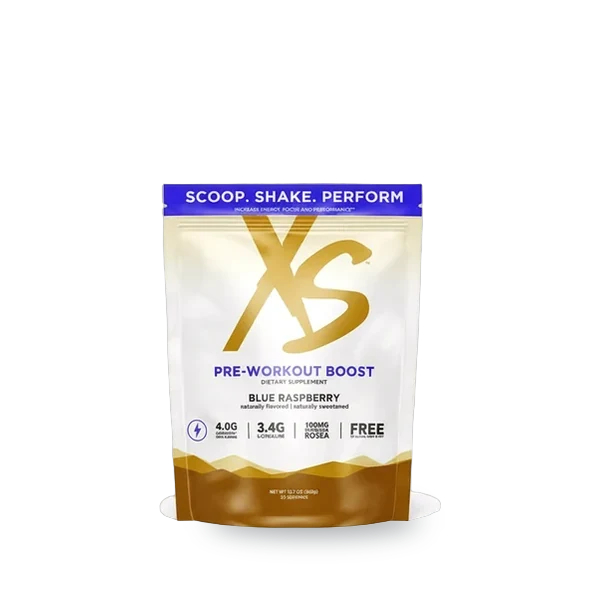
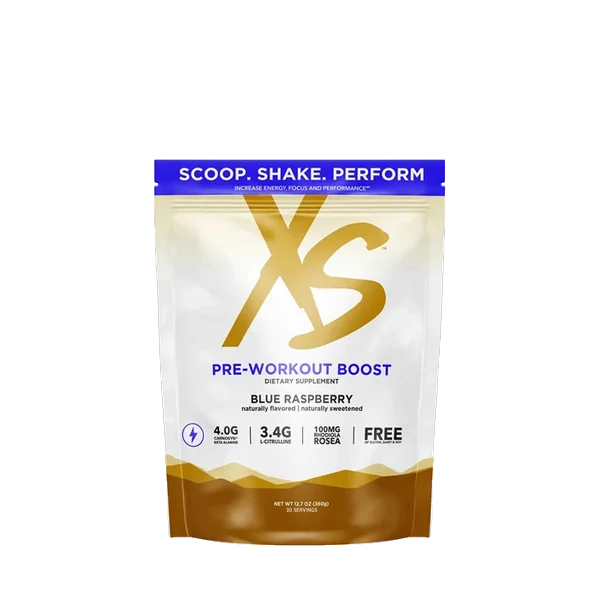
The XS Pre-Workout pouch loses its washed-out studio shot and the grey plate around its base
Two separate faults in one product. The studio re-light (product-shots/) had
tinted the white pouch body cream, and it won over the catalogue photo, so the
colour was wrong everywhere the pack showed; it is parked in unreviewed/.
The catalogue photo itself carried a pale neutral 'plate' around the pouch's
base, light enough to survive the cut-out, which read on the page as a white
ellipse sticking out either side. Cleared in the source's alpha below the row
where it starts: the pouch's own art is warm, the plate was neutral, so only
the plate went. Saved lossless -- the source is RGBA and a lossy re-save, or
flattening it to RGB, turns the cut-out into a white box.

Changed region(s): [[0.24, 0.24, 0.75, 0.93]]

diff --git a/plus/homepage.html b/plus/homepage.html
@@ -485,7 +485,7 @@ if(doc.readyState==='loading')doc.addEventListener('DOMContentLoaded',raise,{onc
           <div class="rk-head"><h3 class="rk-title" id="rk-t-energy-focus">Energy &amp; Focus</h3><p class="rk-sub">Before the session</p></div>
           <ul class="bay-packs rk-packs">
               <li class="bay-pack" style="--k:0"><a class="bay-go" href="https://amway.com/share-link/uoKaQD8~a" target="_blank" rel="noopener" data-name="XS Energy Drink" data-kind="Energy drink · 12 oz · Classic" data-line="The no-sugar can for before the session" data-facts="0 g sugar|114 mg caffeine|15 calories|12 cans, 12 fl oz" data-sfx="can" data-try="XS Energy Drink 12 oz - Classic"><img src="../assets/products/xs-energy-drink-12-oz-classic.webp" alt="" width="600" height="600" loading="lazy" decoding="async"><span>XS Energy Drink</span><span class="vh">, buy on Amway (opens in a new tab)</span></a></li>
-              <li class="bay-pack" style="--k:1"><a class="bay-go" href="https://amway.com/share-link/ZsJafHG0E" target="_blank" rel="noopener" data-name="XS Pre-Workout Boost" data-kind="Pre-workout mix · Blue Raspberry, 30-serving pouch" data-line="The last thing before a hard session" data-facts="115 mg caffeine|4 g beta-alanine|3.4 g L-citrulline|30 servings" data-sfx="chime" data-try="XS Pre-Workout Boost - Blue Raspberry (30 Serving Pouch)"><img src="../assets/products/xs-pre-workout-boost-blue-raspberry-30-serving-pouch.webp" alt="" width="600" height="600" loading="lazy" decoding="async"><span>XS Pre-Workout Boost</span><span class="vh">, buy on Amway (opens in a new tab)</span></a></li>
+              <li class="bay-pack" style="--k:1"><a class="bay-go" href="https://amway.com/share-link/SattacJ5V" target="_blank" rel="noopener" data-name="XS Pre-Workout Boost" data-kind="Pre-workout mix · Blue Raspberry, 12 stick packs" data-line="The last thing before a hard session" data-facts="" data-sfx="chime" data-try="XS Pre-Workout Boost - Blue Raspberry (12 Stick Packs)"><img src="../assets/products/xs-pre-workout-boost-blue-raspberry-12-stick-packs.webp" alt="" width="600" height="600" loading="lazy" decoding="async"><span>XS Pre-Workout Boost</span><span class="vh">, buy on Amway (opens in a new tab)</span></a></li>
               <li class="bay-pack" style="--k:2"><a class="bay-go" href="https://amway.com/share-link/zFoRkr5eK" target="_blank" rel="noopener" data-name="XS Energy + Focus Dietary Supplement" data-kind="Energy tablets · 30 tablets" data-line="For giving the workout your full attention" data-facts="30 tablets|75 mg caffeine a tablet|Caffeine from green tea" data-sfx="chime" data-try="XS Energy + Focus Dietary Supplement - 30 Tablets"><img src="../assets/products/xs-energy-focus-dietary-supplement-30-tablets.webp" alt="" width="600" height="600" loading="lazy" decoding="async"><span>XS Energy + Focus Dietary Supplement</span><span class="vh">, buy on Amway (opens in a new tab)</span></a></li>
           </ul>
           <div class="rk-acts"><button class="btn rk-load" type="button" aria-pressed="false" data-cat="energy-focus" hidden>Load this plate</button><a class="bay-all rk-all" href="category-energy-focus.html">See all Energy &amp; Focus<svg class="ic ic-sm" aria-hidden="true"><use href="#i-arrow"/></svg></a></div>
@@ -1318,7 +1318,7 @@ if(doc.readyState==='loading')doc.addEventListener('DOMContentLoaded',raise,{onc
         <li class="card grow" style="--d:0" data-cat="recovery"><a class="card-link" href="https://amway.com/share-link/lrJlYVhGM" target="_blank" rel="noopener" data-name="XS Post-Workout Recovery" data-kind="Recovery mix · Fruit Punch, 12 stick packs" data-line="For getting back in the game after training" data-facts="12 stick packs|5.6 g L-glutamine|1.5 g glucosamine|45 calories" data-sfx="chime" data-try="XS Post-Workout Recovery - Fruit Punch (12 Stick Packs)" data-shelves="recovery"><span class="shot shot-studio"><img src="../assets/products/xs-post-workout-recovery-fruit-punch-12-stick-packs.webp" alt="" loading="lazy" width="600" height="600"></span><p class="p-tag">Recovery</p><h3 class="p-name">XS Post-Workout Recovery</h3><p class="p-desc">Recovery mix · Fruit Punch, 12 stick packs</p><span class="vh">Buy on Amway (opens in a new tab)</span></a></li>
         <li class="card grow" style="--d:1" data-cat="recovery"><a class="card-link" href="https://amway.com/share-link/CBN8O~MnX" target="_blank" rel="noopener" data-name="XS Post-Workout Recovery" data-kind="Recovery mix · Fruit Punch, 30-serving pouch" data-line="For getting back in the game after training" data-facts="" data-sfx="chime" data-try="XS Post-Workout Recovery - Fruit Punch (30 Serving Pouch)" data-shelves="recovery"><span class="shot shot-studio"><img src="../assets/products/xs-post-workout-recovery-fruit-punch-30-serving-pouch.webp" alt="" loading="lazy" width="600" height="600"></span><p class="p-tag">Recovery</p><h3 class="p-name">XS Post-Workout Recovery</h3><p class="p-desc">Recovery mix · Fruit Punch, 30-serving pouch</p><span class="vh">Buy on Amway (opens in a new tab)</span></a></li>
         <li class="card grow" style="--d:2" data-cat="energy-focus"><a class="card-link" href="https://amway.com/share-link/SattacJ5V" target="_blank" rel="noopener" data-name="XS Pre-Workout Boost" data-kind="Pre-workout mix · Blue Raspberry, 12 stick packs" data-line="The last thing before a hard session" data-facts="" data-sfx="chime" data-try="XS Pre-Workout Boost - Blue Raspberry (12 Stick Packs)" data-shelves="energy-focus"><span class="shot"><img src="../assets/products/xs-pre-workout-boost-blue-raspberry-12-stick-packs.webp" alt="" loading="lazy" width="600" height="600"></span><p class="p-tag">Energy &amp; Focus</p><h3 class="p-name">XS Pre-Workout Boost</h3><p class="p-desc">Pre-workout mix · Blue Raspberry, 12 stick packs</p><span class="vh">Buy on Amway (opens in a new tab)</span></a></li>
-        <li class="card grow" style="--d:3" data-cat="energy-focus"><a class="card-link" href="https://amway.com/share-link/ZsJafHG0E" target="_blank" rel="noopener" data-name="XS Pre-Workout Boost" data-kind="Pre-workout mix · Blue Raspberry, 30-serving pouch" data-line="The last thing before a hard session" data-facts="115 mg caffeine|4 g beta-alanine|3.4 g L-citrulline|30 servings" data-sfx="chime" data-try="XS Pre-Workout Boost - Blue Raspberry (30 Serving Pouch)" data-shelves="energy-focus"><span class="shot shot-studio"><img src="../assets/products/xs-pre-workout-boost-blue-raspberry-30-serving-pouch.webp" alt="" loading="lazy" width="600" height="600"></span><p class="p-tag">Energy &amp; Focus</p><h3 class="p-name">XS Pre-Workout Boost</h3><p class="p-desc">Pre-workout mix · Blue Raspberry, 30-serving pouch</p><span class="vh">Buy on Amway (opens in a new tab)</span></a></li>
+        <li class="card grow" style="--d:3" data-cat="energy-focus"><a class="card-link" href="https://amway.com/share-link/ZsJafHG0E" target="_blank" rel="noopener" data-name="XS Pre-Workout Boost" data-kind="Pre-workout mix · Blue Raspberry, 30-serving pouch" data-line="The last thing before a hard session" data-facts="115 mg caffeine|4 g beta-alanine|3.4 g L-citrulline|30 servings" data-sfx="chime" data-try="XS Pre-Workout Boost - Blue Raspberry (30 Serving Pouch)" data-shelves="energy-focus"><span class="shot"><img src="../assets/products/xs-pre-workout-boost-blue-raspberry-30-serving-pouch.webp" alt="" loading="lazy" width="600" height="600"></span><p class="p-tag">Energy &amp; Focus</p><h3 class="p-name">XS Pre-Workout Boost</h3><p class="p-desc">Pre-workout mix · Blue Raspberry, 30-serving pouch</p><span class="vh">Buy on Amway (opens in a new tab)</span></a></li>
         <li class="card grow" style="--d:0" data-cat="energy-focus"><a class="card-link" href="https://amway.com/share-link/m5Jg-DMsC" target="_blank" rel="noopener" data-name="XS Pre-Workout Boost" data-kind="Pre-workout mix · Green Apple, 12 stick packs" data-line="The last thing before a hard session" data-facts="" data-sfx="chime" data-try="XS Pre-Workout Boost - Green Apple (12 Stick Packs)" data-shelves="energy-focus"><span class="shot"><img src="../assets/products/xs-pre-workout-boost-green-apple-12-stick-packs.webp" alt="" loading="lazy" width="600" height="600"></span><p class="p-tag">Energy &amp; Focus</p><h3 class="p-name">XS Pre-Workout Boost</h3><p class="p-desc">Pre-workout mix · Green Apple, 12 stick packs</p><span class="vh">Buy on Amway (opens in a new tab)</span></a></li>
         <li class="card grow" style="--d:1" data-cat="energy-focus"><a class="card-link" href="https://amway.com/share-link/Om6-lIl43" target="_blank" rel="noopener" data-name="XS Pre-Workout Boost" data-kind="Pre-workout mix · Green Apple, 30-serving pouch" data-line="The last thing before a hard session" data-facts="" data-sfx="chime" data-try="XS Pre-Workout Boost - Green Apple (30 Serving Pouch)" data-shelves="energy-focus"><span class="shot"><img src="../assets/products/xs-pre-workout-boost-green-apple-30-serving-pouch.webp" alt="" loading="lazy" width="600" height="600"></span><p class="p-tag">Energy &amp; Focus</p><h3 class="p-name">XS Pre-Workout Boost</h3><p class="p-desc">Pre-workout mix · Green Apple, 30-serving pouch</p><span class="vh">Buy on Amway (opens in a new tab)</span></a></li>
         <li class="card grow" style="--d:2" data-cat="protein"><a class="card-link" href="https://amway.com/share-link/yQu-NHOoT" target="_blank" rel="noopener" data-name="XS Protein Crisps" data-kind="Protein snack · Barbeque" data-line="Savory, with 12 g of pea protein a serving" data-facts="" data-sfx="chime" data-try="XS Protein Crisps - Barbeque" data-shelves="protein"><span class="shot"><img src="../assets/products/xs-protein-crisps-barbeque.webp" alt="" loading="lazy" width="600" height="600"></span><p class="p-tag">Protein</p><h3 class="p-name">XS Protein Crisps</h3><p class="p-desc">Protein snack · Barbeque</p><span class="vh">Buy on Amway (opens in a new tab)</span></a></li>

diff --git a/homepage.html b/homepage.html
@@ -484,7 +484,7 @@ if(doc.readyState==='loading')doc.addEventListener('DOMContentLoaded',raise,{onc
           <div class="rk-head"><h3 class="rk-title" id="rk-t-energy-focus">Energy &amp; Focus</h3><p class="rk-sub">Before the session</p></div>
           <ul class="bay-packs rk-packs">
               <li class="bay-pack" style="--k:0"><a class="bay-go" href="https://amway.com/share-link/uoKaQD8~a" target="_blank" rel="noopener" data-name="XS Energy Drink" data-kind="Energy drink · 12 oz · Classic" data-line="The no-sugar can for before the session" data-facts="0 g sugar|114 mg caffeine|15 calories|12 cans, 12 fl oz" data-sfx="can" data-try="XS Energy Drink 12 oz - Classic"><img src="assets/products/xs-energy-drink-12-oz-classic.webp" alt="" width="600" height="600" loading="lazy" decoding="async"><span>XS Energy Drink</span><span class="vh">, buy on Amway (opens in a new tab)</span></a></li>
-              <li class="bay-pack" style="--k:1"><a class="bay-go" href="https://amway.com/share-link/ZsJafHG0E" target="_blank" rel="noopener" data-name="XS Pre-Workout Boost" data-kind="Pre-workout mix · Blue Raspberry, 30-serving pouch" data-line="The last thing before a hard session" data-facts="115 mg caffeine|4 g beta-alanine|3.4 g L-citrulline|30 servings" data-sfx="chime" data-try="XS Pre-Workout Boost - Blue Raspberry (30 Serving Pouch)"><img src="assets/products/xs-pre-workout-boost-blue-raspberry-30-serving-pouch.webp" alt="" width="600" height="600" loading="lazy" decoding="async"><span>XS Pre-Workout Boost</span><span class="vh">, buy on Amway (opens in a new tab)</span></a></li>
+              <li class="bay-pack" style="--k:1"><a class="bay-go" href="https://amway.com/share-link/SattacJ5V" target="_blank" rel="noopener" data-name="XS Pre-Workout Boost" data-kind="Pre-workout mix · Blue Raspberry, 12 stick packs" data-line="The last thing before a hard session" data-facts="" data-sfx="chime" data-try="XS Pre-Workout Boost - Blue Raspberry (12 Stick Packs)"><img src="assets/products/xs-pre-workout-boost-blue-raspberry-12-stick-packs.webp" alt="" width="600" height="600" loading="lazy" decoding="async"><span>XS Pre-Workout Boost</span><span class="vh">, buy on Amway (opens in a new tab)</span></a></li>
               <li class="bay-pack" style="--k:2"><a class="bay-go" href="https://amway.com/share-link/zFoRkr5eK" target="_blank" rel="noopener" data-name="XS Energy + Focus Dietary Supplement" data-kind="Energy tablets · 30 tablets" data-line="For giving the workout your full attention" data-facts="30 tablets|75 mg caffeine a tablet|Caffeine from green tea" data-sfx="chime" data-try="XS Energy + Focus Dietary Supplement - 30 Tablets"><img src="assets/products/xs-energy-focus-dietary-supplement-30-tablets.webp" alt="" width="600" height="600" loading="lazy" decoding="async"><span>XS Energy + Focus Dietary Supplement</span><span class="vh">, buy on Amway (opens in a new tab)</span></a></li>
           </ul>
           <div class="rk-acts"><button class="btn rk-load" type="button" aria-pressed="false" data-cat="energy-focus" hidden>Load this plate</button><a class="bay-all rk-all" href="category-energy-focus.html">See all Energy &amp; Focus<svg class="ic ic-sm" aria-hidden="true"><use href="#i-arrow"/></svg></a></div>
@@ -1297,7 +1297,7 @@ if(doc.readyState==='loading')doc.addEventListener('DOMContentLoaded',raise,{onc
         <li class="card grow" style="--d:0" data-cat="recovery"><a class="card-link" href="https://amway.com/share-link/lrJlYVhGM" target="_blank" rel="noopener" data-name="XS Post-Workout Recovery" data-kind="Recovery mix · Fruit Punch, 12 stick packs" data-line="For getting back in the game after training" data-facts="12 stick packs|5.6 g L-glutamine|1.5 g glucosamine|45 calories" data-sfx="chime" data-try="XS Post-Workout Recovery - Fruit Punch (12 Stick Packs)" data-shelves="recovery"><span class="shot shot-studio"><img src="assets/products/xs-post-workout-recovery-fruit-punch-12-stick-packs.webp" alt="" loading="lazy" width="600" height="600"></span><p class="p-tag">Recovery</p><h3 class="p-name">XS Post-Workout Recovery</h3><p class="p-desc">Recovery mix · Fruit Punch, 12 stick packs</p><span class="vh">Buy on Amway (opens in a new tab)</span></a></li>
         <li class="card grow" style="--d:1" data-cat="recovery"><a class="card-link" href="https://amway.com/share-link/CBN8O~MnX" target="_blank" rel="noopener" data-name="XS Post-Workout Recovery" data-kind="Recovery mix · Fruit Punch, 30-serving pouch" data-line="For getting back in the game after training" data-facts="" data-sfx="chime" data-try="XS Post-Workout Recovery - Fruit Punch (30 Serving Pouch)" data-shelves="recovery"><span class="shot shot-studio"><img src="assets/products/xs-post-workout-recovery-fruit-punch-30-serving-pouch.webp" alt="" loading="lazy" width="600" height="600"></span><p class="p-tag">Recovery</p><h3 class="p-name">XS Post-Workout Recovery</h3><p class="p-desc">Recovery mix · Fruit Punch, 30-serving pouch</p><span class="vh">Buy on Amway (opens in a new tab)</span></a></li>
         <li class="card grow" style="--d:2" data-cat="energy-focus"><a class="card-link" href="https://amway.com/share-link/SattacJ5V" target="_blank" rel="noopener" data-name="XS Pre-Workout Boost" data-kind="Pre-workout mix · Blue Raspberry, 12 stick packs" data-line="The last thing before a hard session" data-facts="" data-sfx="chime" data-try="XS Pre-Workout Boost - Blue Raspberry (12 Stick Packs)" data-shelves="energy-focus"><span class="shot"><img src="assets/products/xs-pre-workout-boost-blue-raspberry-12-stick-packs.webp" alt="" loading="lazy" width="600" height="600"></span><p class="p-tag">Energy &amp; Focus</p><h3 class="p-name">XS Pre-Workout Boost</h3><p class="p-desc">Pre-workout mix · Blue Raspberry, 12 stick packs</p><span class="vh">Buy on Amway (opens in a new tab)</span></a></li>
-        <li class="card grow" style="--d:3" data-cat="energy-focus"><a class="card-link" href="https://amway.com/share-link/ZsJafHG0E" target="_blank" rel="noopener" data-name="XS Pre-Workout Boost" data-kind="Pre-workout mix · Blue Raspberry, 30-serving pouch" data-line="The last thing before a hard session" data-facts="115 mg caffeine|4 g beta-alanine|3.4 g L-citrulline|30 servings" data-sfx="chime" data-try="XS Pre-Workout Boost - Blue Raspberry (30 Serving Pouch)" data-shelves="energy-focus"><span class="shot shot-studio"><img src="assets/products/xs-pre-workout-boost-blue-raspberry-30-serving-pouch.webp" alt="" loading="lazy" width="600" height="600"></span><p class="p-tag">Energy &amp; Focus</p><h3 class="p-name">XS Pre-Workout Boost</h3><p class="p-desc">Pre-workout mix · Blue Raspberry, 30-serving pouch</p><span class="vh">Buy on Amway (opens in a new tab)</span></a></li>
+        <li class="card grow" style="--d:3" data-cat="energy-focus"><a class="card-link" href="https://amway.com/share-link/ZsJafHG0E" target="_blank" rel="noopener" data-name="XS Pre-Workout Boost" data-kind="Pre-workout mix · Blue Raspberry, 30-serving pouch" data-line="The last thing before a hard session" data-facts="115 mg caffeine|4 g beta-alanine|3.4 g L-citrulline|30 servings" data-sfx="chime" data-try="XS Pre-Workout Boost - Blue Raspberry (30 Serving Pouch)" data-shelves="energy-focus"><span class="shot"><img src="assets/products/xs-pre-workout-boost-blue-raspberry-30-serving-pouch.webp" alt="" loading="lazy" width="600" height="600"></span><p class="p-tag">Energy &amp; Focus</p><h3 class="p-name">XS Pre-Workout Boost</h3><p class="p-desc">Pre-workout mix · Blue Raspberry, 30-serving pouch</p><span class="vh">Buy on Amway (opens in a new tab)</span></a></li>
         <li class="card grow" style="--d:0" data-cat="energy-focus"><a class="card-link" href="https://amway.com/share-link/m5Jg-DMsC" target="_blank" rel="noopener" data-name="XS Pre-Workout Boost" data-kind="Pre-workout mix · Green Apple, 12 stick packs" data-line="The last thing before a hard session" data-facts="" data-sfx="chime" data-try="XS Pre-Workout Boost - Green Apple (12 Stick Packs)" data-shelves="energy-focus"><span class="shot"><img src="assets/products/xs-pre-workout-boost-green-apple-12-stick-packs.webp" alt="" loading="lazy" width="600" height="600"></span><p class="p-tag">Energy &amp; Focus</p><h3 class="p-name">XS Pre-Workout Boost</h3><p class="p-desc">Pre-workout mix · Green Apple, 12 stick packs</p><span class="vh">Buy on Amway (opens in a new tab)</span></a></li>
         <li class="card grow" style="--d:1" data-cat="energy-focus"><a class="card-link" href="https://amway.com/share-link/Om6-lIl43" target="_blank" rel="noopener" data-name="XS Pre-Workout Boost" data-kind="Pre-workout mix · Green Apple, 30-serving pouch" data-line="The last thing before a hard session" data-facts="" data-sfx="chime" data-try="XS Pre-Workout Boost - Green Apple (30 Serving Pouch)" data-shelves="energy-focus"><span class="shot"><img src="assets/products/xs-pre-workout-boost-green-apple-30-serving-pouch.webp" alt="" loading="lazy" width="600" height="600"></span><p class="p-tag">Energy &amp; Focus</p><h3 class="p-name">XS Pre-Workout Boost</h3><p class="p-desc">Pre-workout mix · Green Apple, 30-serving pouch</p><span class="vh">Buy on Amway (opens in a new tab)</span></a></li>
         <li class="card grow" style="--d:2" data-cat="protein"><a class="card-link" href="https://amway.com/share-link/yQu-NHOoT" target="_blank" rel="noopener" data-name="XS Protein Crisps" data-kind="Protein snack · Barbeque" data-line="Savory, with 12 g of pea protein a serving" data-facts="" data-sfx="chime" data-try="XS Protein Crisps - Barbeque" data-shelves="protein"><span class="shot"><img src="assets/products/xs-protein-crisps-barbeque.webp" alt="" loading="lazy" width="600" height="600"></span><p class="p-tag">Protein</p><h3 class="p-name">XS Protein Crisps</h3><p class="p-desc">Protein snack · Barbeque</p><span class="vh">Buy on Amway (opens in a new tab)</span></a></li>

diff --git a/plus/category-energy-focus.html b/plus/category-energy-focus.html
@@ -215,7 +215,7 @@
         <li class="card grow" style="--d:3" data-cat="energy-focus"><a class="card-link" href="https://amway.com/share-link/EXX8FgRW6" target="_blank" rel="noopener" data-name="XS Energy + Focus Dietary Supplement" data-kind="Energy tablets · 60 tablets" data-line="For giving the workout your full attention" data-facts="" data-sfx="chime" data-try="XS Energy + Focus Dietary Supplement - 60 Tablets"><span class="shot"><img src="../assets/products/xs-energy-focus-dietary-supplement-60-tablets.webp" alt="" loading="lazy" width="600" height="600"></span><p class="p-tag">Energy &amp; Focus</p><h3 class="p-name">XS Energy + Focus Dietary Supplement</h3><p class="p-desc">Energy tablets · 60 tablets</p><span class="vh">Buy on Amway (opens in a new tab)</span></a></li>
         <li class="card grow" style="--d:0" data-cat="energy-focus"><a class="card-link" href="https://amway.com/share-link/DwyiPxiIU" target="_blank" rel="noopener" data-name="XS Juiced and Burn" data-kind="Energy drink · 12 oz · Variety Case" data-line="Six flavors from two ranges, to find yours" data-facts="" data-sfx="can" data-try="XS Juiced and Burn 12 oz - Variety Case"><span class="shot"><img src="../assets/products/xs-juiced-and-burn-12-oz-variety-case.webp" alt="" loading="lazy" width="600" height="600"></span><p class="p-tag">Energy &amp; Focus</p><h3 class="p-name">XS Juiced and Burn</h3><p class="p-desc">Energy drink · 12 oz · Variety Case</p><span class="vh">Buy on Amway (opens in a new tab)</span></a></li>
         <li class="card grow" style="--d:1" data-cat="energy-focus"><a class="card-link" href="https://amway.com/share-link/SattacJ5V" target="_blank" rel="noopener" data-name="XS Pre-Workout Boost" data-kind="Pre-workout mix · Blue Raspberry, 12 stick packs" data-line="The last thing before a hard session" data-facts="" data-sfx="chime" data-try="XS Pre-Workout Boost - Blue Raspberry (12 Stick Packs)"><span class="shot"><img src="../assets/products/xs-pre-workout-boost-blue-raspberry-12-stick-packs.webp" alt="" loading="lazy" width="600" height="600"></span><p class="p-tag">Energy &amp; Focus</p><h3 class="p-name">XS Pre-Workout Boost</h3><p class="p-desc">Pre-workout mix · Blue Raspberry, 12 stick packs</p><span class="vh">Buy on Amway (opens in a new tab)</span></a></li>
-        <li class="card grow" style="--d:2" data-cat="energy-focus"><a class="card-link" href="https://amway.com/share-link/ZsJafHG0E" target="_blank" rel="noopener" data-name="XS Pre-Workout Boost" data-kind="Pre-workout mix · Blue Raspberry, 30-serving pouch" data-line="The last thing before a hard session" data-facts="115 mg caffeine|4 g beta-alanine|3.4 g L-citrulline|30 servings" data-sfx="chime" data-try="XS Pre-Workout Boost - Blue Raspberry (30 Serving Pouch)"><span class="shot shot-studio"><img src="../assets/products/xs-pre-workout-boost-blue-raspberry-30-serving-pouch.webp" alt="" loading="lazy" width="600" height="600"></span><p class="p-tag">Energy &amp; Focus</p><h3 class="p-name">XS Pre-Workout Boost</h3><p class="p-desc">Pre-workout mix · Blue Raspberry, 30-serving pouch</p><span class="vh">Buy on Amway (opens in a new tab)</span></a></li>
+        <li class="card grow" style="--d:2" data-cat="energy-focus"><a class="card-link" href="https://amway.com/share-link/ZsJafHG0E" target="_blank" rel="noopener" data-name="XS Pre-Workout Boost" data-kind="Pre-workout mix · Blue Raspberry, 30-serving pouch" data-line="The last thing before a hard session" data-facts="115 mg caffeine|4 g beta-alanine|3.4 g L-citrulline|30 servings" data-sfx="chime" data-try="XS Pre-Workout Boost - Blue Raspberry (30 Serving Pouch)"><span class="shot"><img src="../assets/products/xs-pre-workout-boost-blue-raspberry-30-serving-pouch.webp" alt="" loading="lazy" width="600" height="600"></span><p class="p-tag">Energy &amp; Focus</p><h3 class="p-name">XS Pre-Workout Boost</h3><p class="p-desc">Pre-workout mix · Blue Raspberry, 30-serving pouch</p><span class="vh">Buy on Amway (opens in a new tab)</span></a></li>
         <li class="card grow" style="--d:3" data-cat="energy-focus"><a class="card-link" href="https://amway.com/share-link/m5Jg-DMsC" target="_blank" rel="noopener" data-name="XS Pre-Workout Boost" data-kind="Pre-workout mix · Green Apple, 12 stick packs" data-line="The last thing before a hard session" data-facts="" data-sfx="chime" data-try="XS Pre-Workout Boost - Green Apple (12 Stick Packs)"><span class="shot"><img src="../assets/products/xs-pre-workout-boost-green-apple-12-stick-packs.webp" alt="" loading="lazy" width="600" height="600"></span><p class="p-tag">Energy &amp; Focus</p><h3 class="p-name">XS Pre-Workout Boost</h3><p class="p-desc">Pre-workout mix · Green Apple, 12 stick packs</p><span class="vh">Buy on Amway (opens in a new tab)</span></a></li>
         <li class="card grow" style="--d:0" data-cat="energy-focus"><a class="card-link" href="https://amway.com/share-link/Om6-lIl43" target="_blank" rel="noopener" data-name="XS Pre-Workout Boost" data-kind="Pre-workout mix · Green Apple, 30-serving pouch" data-line="The last thing before a hard session" data-facts="" data-sfx="chime" data-try="XS Pre-Workout Boost - Green Apple (30 Serving Pouch)"><span class="shot"><img src="../assets/products/xs-pre-workout-boost-green-apple-30-serving-pouch.webp" alt="" loading="lazy" width="600" height="600"></span><p class="p-tag">Energy &amp; Focus</p><h3 class="p-name">XS Pre-Workout Boost</h3><p class="p-desc">Pre-workout mix · Green Apple, 30-serving pouch</p><span class="vh">Buy on Amway (opens in a new tab)</span></a></li>
         <li class="card grow" style="--d:1" data-cat="energy-focus"><a class="card-link" href="https://amway.com/share-link/mk5aRggdy" target="_blank" rel="noopener" data-name="XS Sparkling Juiced Energy" data-kind="Sparkling energy drink · 12 oz · Caffeine Free Mango Pineapple Guava" data-line="Made with real fruit juice, no added sugar" data-facts="" data-sfx="can" data-try="XS Sparkling Juiced Energy 12 oz - Caffeine Free Mango Pineapple Guava"><span class="shot"><img src="../assets/products/xs-sparkling-juiced-energy-12-oz-caffeine-free-mango-pineapple-guava.webp" alt="" loading="lazy" width="600" height="600"></span><p class="p-tag">Energy &amp; Focus</p><h3 class="p-name">XS Sparkling Juiced Energy</h3><p class="p-desc">Sparkling energy drink · 12 oz · Caffeine Free Mango Pineapple Guava</p><span class="vh">Buy on Amway (opens in a new tab)</span></a></li>

diff --git a/category-energy-focus.html b/category-energy-focus.html
@@ -214,7 +214,7 @@
         <li class="card grow" style="--d:3" data-cat="energy-focus"><a class="card-link" href="https://amway.com/share-link/EXX8FgRW6" target="_blank" rel="noopener" data-name="XS Energy + Focus Dietary Supplement" data-kind="Energy tablets · 60 tablets" data-line="For giving the workout your full attention" data-facts="" data-sfx="chime" data-try="XS Energy + Focus Dietary Supplement - 60 Tablets"><span class="shot"><img src="assets/products/xs-energy-focus-dietary-supplement-60-tablets.webp" alt="" loading="lazy" width="600" height="600"></span><p class="p-tag">Energy &amp; Focus</p><h3 class="p-name">XS Energy + Focus Dietary Supplement</h3><p class="p-desc">Energy tablets · 60 tablets</p><span class="vh">Buy on Amway (opens in a new tab)</span></a></li>
         <li class="card grow" style="--d:0" data-cat="energy-focus"><a class="card-link" href="https://amway.com/share-link/DwyiPxiIU" target="_blank" rel="noopener" data-name="XS Juiced and Burn" data-kind="Energy drink · 12 oz · Variety Case" data-line="Six flavors from two ranges, to find yours" data-facts="" data-sfx="can" data-try="XS Juiced and Burn 12 oz - Variety Case"><span class="shot"><img src="assets/products/xs-juiced-and-burn-12-oz-variety-case.webp" alt="" loading="lazy" width="600" height="600"></span><p class="p-tag">Energy &amp; Focus</p><h3 class="p-name">XS Juiced and Burn</h3><p class="p-desc">Energy drink · 12 oz · Variety Case</p><span class="vh">Buy on Amway (opens in a new tab)</span></a></li>
         <li class="card grow" style="--d:1" data-cat="energy-focus"><a class="card-link" href="https://amway.com/share-link/SattacJ5V" target="_blank" rel="noopener" data-name="XS Pre-Workout Boost" data-kind="Pre-workout mix · Blue Raspberry, 12 stick packs" data-line="The last thing before a hard session" data-facts="" data-sfx="chime" data-try="XS Pre-Workout Boost - Blue Raspberry (12 Stick Packs)"><span class="shot"><img src="assets/products/xs-pre-workout-boost-blue-raspberry-12-stick-packs.webp" alt="" loading="lazy" width="600" height="600"></span><p class="p-tag">Energy &amp; Focus</p><h3 class="p-name">XS Pre-Workout Boost</h3><p class="p-desc">Pre-workout mix · Blue Raspberry, 12 stick packs</p><span class="vh">Buy on Amway (opens in a new tab)</span></a></li>
-        <li class="card grow" style="--d:2" data-cat="energy-focus"><a class="card-link" href="https://amway.com/share-link/ZsJafHG0E" target="_blank" rel="noopener" data-name="XS Pre-Workout Boost" data-kind="Pre-workout mix · Blue Raspberry, 30-serving pouch" data-line="The last thing before a hard session" data-facts="115 mg caffeine|4 g beta-alanine|3.4 g L-citrulline|30 servings" data-sfx="chime" data-try="XS Pre-Workout Boost - Blue Raspberry (30 Serving Pouch)"><span class="shot shot-studio"><img src="assets/products/xs-pre-workout-boost-blue-raspberry-30-serving-pouch.webp" alt="" loading="lazy" width="600" height="600"></span><p class="p-tag">Energy &amp; Focus</p><h3 class="p-name">XS Pre-Workout Boost</h3><p class="p-desc">Pre-workout mix · Blue Raspberry, 30-serving pouch</p><span class="vh">Buy on Amway (opens in a new tab)</span></a></li>
+        <li class="card grow" style="--d:2" data-cat="energy-focus"><a class="card-link" href="https://amway.com/share-link/ZsJafHG0E" target="_blank" rel="noopener" data-name="XS Pre-Workout Boost" data-kind="Pre-workout mix · Blue Raspberry, 30-serving pouch" data-line="The last thing before a hard session" data-facts="115 mg caffeine|4 g beta-alanine|3.4 g L-citrulline|30 servings" data-sfx="chime" data-try="XS Pre-Workout Boost - Blue Raspberry (30 Serving Pouch)"><span class="shot"><img src="assets/products/xs-pre-workout-boost-blue-raspberry-30-serving-pouch.webp" alt="" loading="lazy" width="600" height="600"></span><p class="p-tag">Energy &amp; Focus</p><h3 class="p-name">XS Pre-Workout Boost</h3><p class="p-desc">Pre-workout mix · Blue Raspberry, 30-serving pouch</p><span class="vh">Buy on Amway (opens in a new tab)</span></a></li>
         <li class="card grow" style="--d:3" data-cat="energy-focus"><a class="card-link" href="https://amway.com/share-link/m5Jg-DMsC" target="_blank" rel="noopener" data-name="XS Pre-Workout Boost" data-kind="Pre-workout mix · Green Apple, 12 stick packs" data-line="The last thing before a hard session" data-facts="" data-sfx="chime" data-try="XS Pre-Workout Boost - Green Apple (12 Stick Packs)"><span class="shot"><img src="assets/products/xs-pre-workout-boost-green-apple-12-stick-packs.webp" alt="" loading="lazy" width="600" height="600"></span><p class="p-tag">Energy &amp; Focus</p><h3 class="p-name">XS Pre-Workout Boost</h3><p class="p-desc">Pre-workout mix · Green Apple, 12 stick packs</p><span class="vh">Buy on Amway (opens in a new tab)</span></a></li>
         <li class="card grow" style="--d:0" data-cat="energy-focus"><a class="card-link" href="https://amway.com/share-link/Om6-lIl43" target="_blank" rel="noopener" data-name="XS Pre-Workout Boost" data-kind="Pre-workout mix · Green Apple, 30-serving pouch" data-line="The last thing before a hard session" data-facts="" data-sfx="chime" data-try="XS Pre-Workout Boost - Green Apple (30 Serving Pouch)"><span class="shot"><img src="assets/products/xs-pre-workout-boost-green-apple-30-serving-pouch.webp" alt="" loading="lazy" width="600" height="600"></span><p class="p-tag">Energy &amp; Focus</p><h3 class="p-name">XS Pre-Workout Boost</h3><p class="p-desc">Pre-workout mix · Green Apple, 30-serving pouch</p><span class="vh">Buy on Amway (opens in a new tab)</span></a></li>
         <li class="card grow" style="--d:1" data-cat="energy-focus"><a class="card-link" href="https://amway.com/share-link/mk5aRggdy" target="_blank" rel="noopener" data-name="XS Sparkling Juiced Energy" data-kind="Sparkling energy drink · 12 oz · Caffeine Free Mango Pineapple Guava" data-line="Made with real fruit juice, no added sugar" data-facts="" data-sfx="can" data-try="XS Sparkling Juiced Energy 12 oz - Caffeine Free Mango Pineapple Guava"><span class="shot"><img src="assets/products/xs-sparkling-juiced-energy-12-oz-caffeine-free-mango-pineapple-guava.webp" alt="" loading="lazy" width="600" height="600"></span><p class="p-tag">Energy &amp; Focus</p><h3 class="p-name">XS Sparkling Juiced Energy</h3><p class="p-desc">Sparkling energy drink · 12 oz · Caffeine Free Mango Pineapple Guava</p><span class="vh">Buy on Amway (opens in a new tab)</span></a></li>
